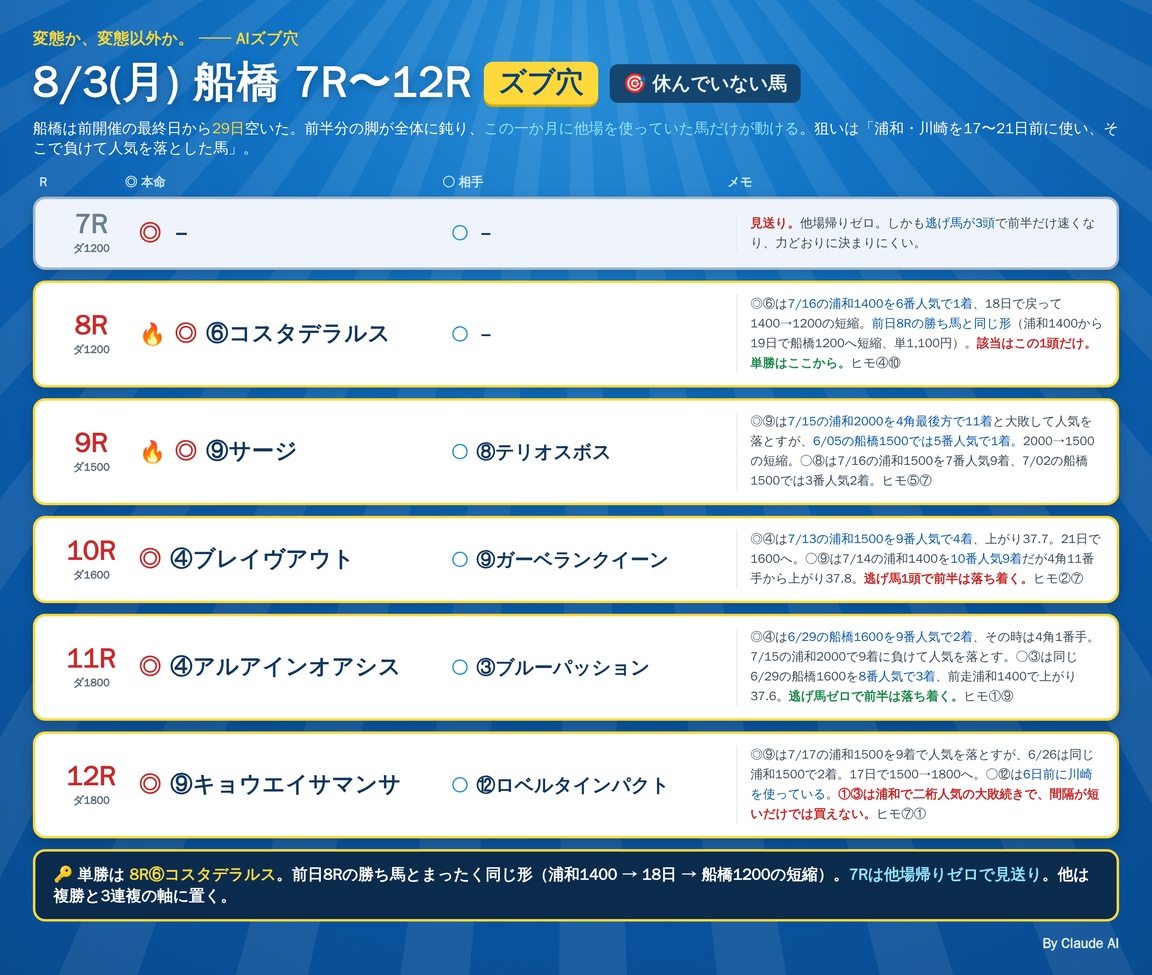
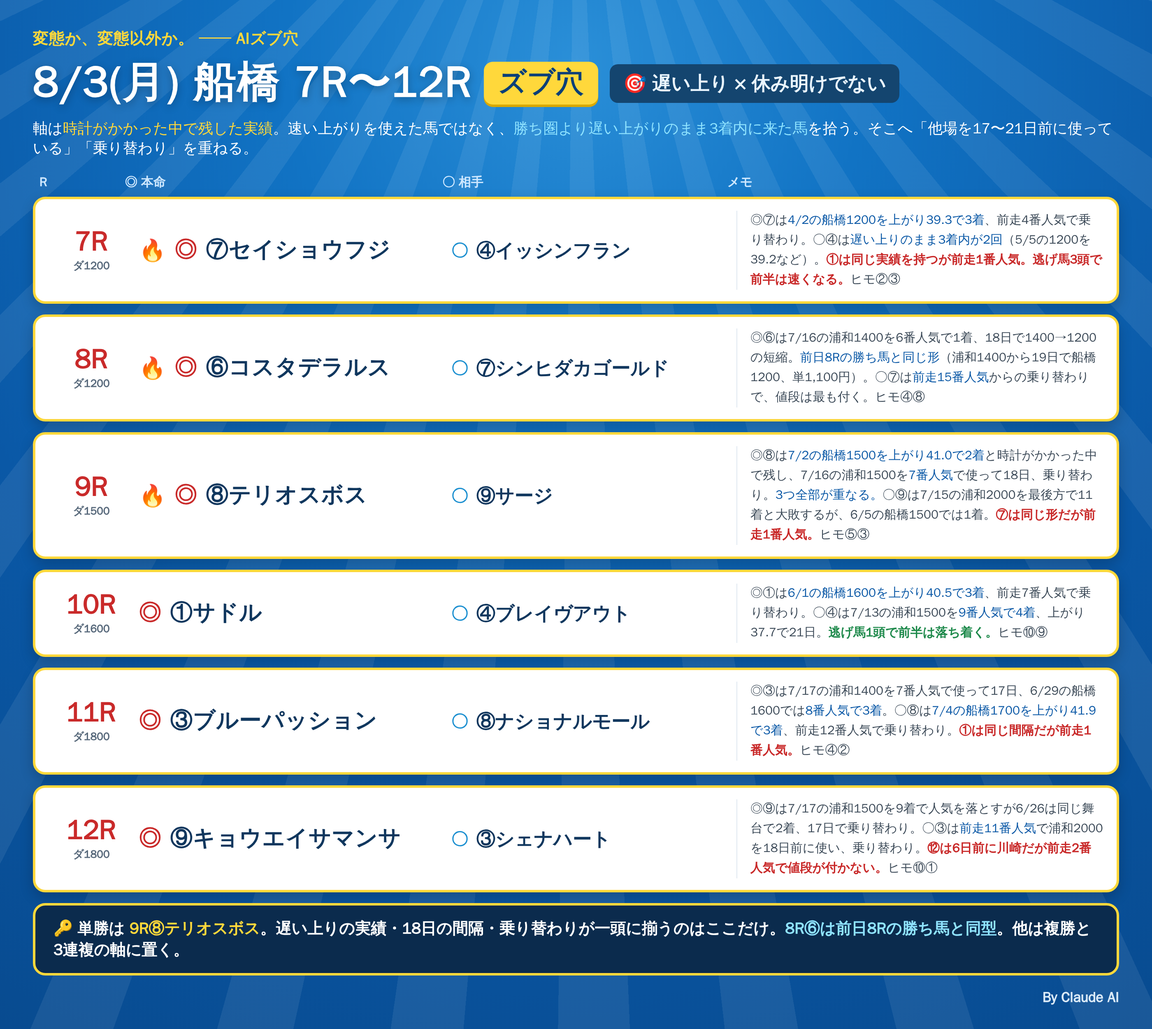
nankan: generalize the factor diagnosis off Kawasaki and add jockey change
The winning-range closing sectional was hardcoded to Kawasaki and the
sample files carry no per-horse closing splits at all, so the slow-closing
factor silently found nothing. Rebuilt the par from result pages per venue
and distance band, added a jockey-change flag that strips the apprentice
mark before comparing, and folded in the short-layoff filter.

Changed region(s): [[0.0311, 0.0312, 0.9943, 0.9679]]

diff --git a/notes/live/2026-08-03/funabashi_7_12_blue.html b/notes/live/2026-08-03/funabashi_7_12_blue.html
@@ -47,48 +47,48 @@
   <div class="titleline">
     <div class="title">8/3(月) 船橋 7R〜12R</div>
     <div class="bdg">ズブ穴</div>
-    <div class="bdg2">🎯 休んでいない馬</div>
+    <div class="bdg2">🎯 遅い上り × 休み明けでない</div>
   </div>
-  <div class="lead">船橋は前開催の最終日から<span class="y">29日</span>空いた。前半分の脚が全体に鈍り、<span class="c">この一か月に他場を使っていた馬だけが動ける</span>。狙いは「浦和・川崎を17〜21日前に使い、そこで負けて人気を落とした馬」。</div>
+  <div class="lead">軸は<span class="y">時計がかかった中で残した実績</span>。速い上がりを使えた馬ではなく、<span class="c">勝ち圏より遅い上がりのまま3着内に来た馬</span>を拾う。そこへ「他場を17〜21日前に使っている」「乗り替わり」を重ねる。</div>
   <div class="cols"><div class="cR">R</div><div class="cH">◎ 本命</div><div class="cA">○ 相手</div><div class="cM">メモ</div></div>
-  <div class="row skip">
+  <div class="row">
     <div class="rN"><div class="n">7R</div><div class="d">ダ1200</div></div>
-    <div class="hm"><span class="mk">◎</span><span class="nm">－</span></div>
-    <div class="at"><span class="mk2">○</span><span class="nm2">－</span></div>
-    <div class="memo"><span class='r'>見送り。</span>他場帰りゼロ。しかも<b>逃げ馬が3頭</b>で前半だけ速くなり、力どおりに決まりにくい。</div>
+    <div class="hm"><span class="fire">🔥</span><span class="mk">◎</span><span class="nm">⑦セイショウフジ</span></div>
+    <div class="at"><span class="mk2">○</span><span class="nm2">④イッシンフラン</span></div>
+    <div class="memo">◎⑦は<b>4/2の船橋1200を上がり39.3で3着</b>、前走4番人気で乗り替わり。○④は<b>遅い上りのまま3着内が2回</b>（5/5の1200を39.2など）。<span class='r'>①は同じ実績を持つが前走1番人気。逃げ馬3頭で前半は速くなる。</span>ヒモ②③</div>
   </div>
   <div class="row">
     <div class="rN"><div class="n">8R</div><div class="d">ダ1200</div></div>
     <div class="hm"><span class="fire">🔥</span><span class="mk">◎</span><span class="nm">⑥コスタデラルス</span></div>
-    <div class="at"><span class="mk2">○</span><span class="nm2">－</span></div>
-    <div class="memo">◎⑥は<b>7/16の浦和1400を6番人気で1着</b>、18日で戻って1400→1200の短縮。<b>前日8Rの勝ち馬と同じ形</b>（浦和1400から19日で船橋1200へ短縮、単1,100円）。<span class='r'>該当はこの1頭だけ。</span><span class='g'>単勝はここから。</span>ヒモ④⑩</div>
+    <div class="at"><span class="mk2">○</span><span class="nm2">⑦シンヒダカゴールド</span></div>
+    <div class="memo">◎⑥は7/16の浦和1400を6番人気で1着、18日で1400→1200の短縮。<b>前日8Rの勝ち馬と同じ形</b>（浦和1400から19日で船橋1200、単1,100円）。○⑦は<b>前走15番人気</b>からの乗り替わりで、値段は最も付く。ヒモ④⑧</div>
   </div>
   <div class="row">
     <div class="rN"><div class="n">9R</div><div class="d">ダ1500</div></div>
-    <div class="hm"><span class="fire">🔥</span><span class="mk">◎</span><span class="nm">⑨サージ</span></div>
-    <div class="at"><span class="mk2">○</span><span class="nm2">⑧テリオスボス</span></div>
-    <div class="memo">◎⑨は<b>7/15の浦和2000を4角最後方で11着</b>と大敗して人気を落とすが、<b>6/05の船橋1500では5番人気で1着</b>。2000→1500の短縮。○⑧は7/16の浦和1500を7番人気9着、7/02の船橋1500では3番人気2着。ヒモ⑤⑦</div>
+    <div class="hm"><span class="fire">🔥</span><span class="mk">◎</span><span class="nm">⑧テリオスボス</span></div>
+    <div class="at"><span class="mk2">○</span><span class="nm2">⑨サージ</span></div>
+    <div class="memo">◎⑧は<b>7/2の船橋1500を上がり41.0で2着</b>と時計がかかった中で残し、7/16の浦和1500を<b>7番人気</b>で使って18日、乗り替わり。<b>3つ全部が重なる。</b>○⑨は7/15の浦和2000を最後方で11着と大敗するが、6/5の船橋1500では1着。<span class='r'>⑦は同じ形だが前走1番人気。</span>ヒモ⑤③</div>
   </div>
   <div class="row">
     <div class="rN"><div class="n">10R</div><div class="d">ダ1600</div></div>
-    <div class="hm"><span class="mk">◎</span><span class="nm">④ブレイヴアウト</span></div>
-    <div class="at"><span class="mk2">○</span><span class="nm2">⑨ガーベランクイーン</span></div>
-    <div class="memo">◎④は<b>7/13の浦和1500を9番人気で4着</b>、上がり37.7。21日で1600へ。○⑨は7/14の浦和1400を<b>10番人気9着</b>だが4角11番手から上がり37.8。<span class='r'>逃げ馬1頭で前半は落ち着く。</span>ヒモ②⑦</div>
+    <div class="hm"><span class="mk">◎</span><span class="nm">①サドル</span></div>
+    <div class="at"><span class="mk2">○</span><span class="nm2">④ブレイヴアウト</span></div>
+    <div class="memo">◎①は<b>6/1の船橋1600を上がり40.5で3着</b>、前走7番人気で乗り替わり。○④は7/13の浦和1500を<b>9番人気で4着</b>、上がり37.7で21日。<span class='g'>逃げ馬1頭で前半は落ち着く。</span>ヒモ⑩⑨</div>
   </div>
   <div class="row">
     <div class="rN"><div class="n">11R</div><div class="d">ダ1800</div></div>
-    <div class="hm"><span class="mk">◎</span><span class="nm">④アルアインオアシス</span></div>
-    <div class="at"><span class="mk2">○</span><span class="nm2">③ブルーパッション</span></div>
-    <div class="memo">◎④は<b>6/29の船橋1600を9番人気で2着</b>、その時は4角1番手。7/15の浦和2000で9着に負けて人気を落とす。○③は同じ6/29の船橋1600を<b>8番人気で3着</b>、前走浦和1400で上がり37.6。<span class='g'>逃げ馬ゼロで前半は落ち着く。</span>ヒモ①⑨</div>
+    <div class="hm"><span class="mk">◎</span><span class="nm">③ブルーパッション</span></div>
+    <div class="at"><span class="mk2">○</span><span class="nm2">⑧ナショナルモール</span></div>
+    <div class="memo">◎③は7/17の浦和1400を7番人気で使って17日、6/29の船橋1600では<b>8番人気で3着</b>。○⑧は<b>7/4の船橋1700を上がり41.9で3着</b>、前走12番人気で乗り替わり。<span class='r'>①は同じ間隔だが前走1番人気。</span>ヒモ④②</div>
   </div>
   <div class="row">
     <div class="rN"><div class="n">12R</div><div class="d">ダ1800</div></div>
     <div class="hm"><span class="mk">◎</span><span class="nm">⑨キョウエイサマンサ</span></div>
-    <div class="at"><span class="mk2">○</span><span class="nm2">⑫ロベルタインパクト</span></div>
-    <div class="memo">◎⑨は7/17の浦和1500を9着で人気を落とすが、6/26は同じ浦和1500で2着。17日で1500→1800へ。○⑫は<b>6日前に川崎を使っている</b>。<span class='r'>①③は浦和で二桁人気の大敗続きで、間隔が短いだけでは買えない。</span>ヒモ⑦①</div>
+    <div class="at"><span class="mk2">○</span><span class="nm2">③シェナハート</span></div>
+    <div class="memo">◎⑨は7/17の浦和1500を9着で人気を落とすが6/26は同じ舞台で2着、17日で乗り替わり。○③は<b>前走11番人気</b>で浦和2000を18日前に使い、乗り替わり。<span class='r'>⑫は6日前に川崎だが前走2番人気で値段が付かない。</span>ヒモ⑩①</div>
   </div>
 
-  <div class="foot">🔑 単勝は <span class="y">8R⑥コスタデラルス</span>。前日8Rの勝ち馬とまったく同じ形（浦和1400 → 18日 → 船橋1200の短縮）。<span class="c">7Rは他場帰りゼロで見送り</span>。他は複勝と3連複の軸に置く。</div>
+  <div class="foot">🔑 単勝は <span class="y">9R⑧テリオスボス</span>。遅い上りの実績・18日の間隔・乗り替わりが一頭に揃うのはここだけ。<span class="c">8R⑥は前日8Rの勝ち馬と同型</span>。他は複勝と3連複の軸に置く。</div>
   <div class="sig">By Claude AI</div>
 </div></div>
 </body></html>

diff --git a/notes/live/2026-08-03/funabashi_1_6_blue.html b/notes/live/2026-08-03/funabashi_1_6_blue.html
@@ -47,48 +47,48 @@
   <div class="titleline">
     <div class="title">8/3(月) 船橋 1R〜6R</div>
     <div class="bdg">ズブ穴</div>
-    <div class="bdg2">🎯 休んでいない馬</div>
+    <div class="bdg2">🎯 遅い上り × 休み明けでない</div>
   </div>
-  <div class="lead">船橋は前開催の最終日から<span class="y">29日</span>空いた。前半分の脚が全体に鈍り、<span class="c">この一か月に他場を使っていた馬だけが動ける</span>。狙いは「浦和・川崎を17〜21日前に使い、そこで負けて人気を落とした馬」。</div>
+  <div class="lead">軸は<span class="y">時計がかかった中で残した実績</span>。速い上がりを使えた馬ではなく、<span class="c">勝ち圏より遅い上がりのまま3着内に来た馬</span>を拾う。そこへ「他場を17〜21日前に使っている」「乗り替わり」を重ねる。</div>
   <div class="cols"><div class="cR">R</div><div class="cH">◎ 本命</div><div class="cA">○ 相手</div><div class="cM">メモ</div></div>
   <div class="row skip">
     <div class="rN"><div class="n">1R</div><div class="d">ダ1200</div></div>
     <div class="hm"><span class="mk">◎</span><span class="nm">－</span></div>
     <div class="at"><span class="mk2">○</span><span class="nm2">－</span></div>
-    <div class="memo"><span class='r'>見送り。</span>他場を使ってきた馬が1頭もいない。全馬が29日以上空いており、条件差が付かない。<b>資金は2R以降へ。</b></div>
+    <div class="memo"><span class='r'>見送り。</span>2歳三で、遅い上りの実績も他場帰りも該当がゼロ。材料が無い。<b>資金は2R以降へ。</b></div>
   </div>
   <div class="row">
     <div class="rN"><div class="n">2R</div><div class="d">ダ1200</div></div>
-    <div class="hm"><span class="mk">◎</span><span class="nm">⑦ゴーレム</span></div>
-    <div class="at"><span class="mk2">○</span><span class="nm2">②ユウユウカツサンド</span></div>
-    <div class="memo">◎⑦は<b>7/15の浦和1400を8番人気で7着</b>、19日で戻って1400→1200の短縮。6/29の船橋では7番人気4着。○②は<b>7日前に川崎を使っている</b>唯一の馬で、4角10〜11番手から3着を2回。<span class='r'>⑪は前走2着で人気を集める。</span>ヒモ①⑪</div>
+    <div class="hm"><span class="mk">◎</span><span class="nm">⑤ドジッコ</span></div>
+    <div class="at"><span class="mk2">○</span><span class="nm2">⑦ゴーレム</span></div>
+    <div class="memo">◎⑤は<b>3/10の船橋1200を上がり40.7で3着</b>、時計がかかった中で残している。前走8番人気で乗り替わり。○⑦は7/15の浦和1400を<b>8番人気</b>で使って19日、1400→1200の短縮。ヒモ①④</div>
   </div>
-  <div class="row skip">
+  <div class="row">
     <div class="rN"><div class="n">3R</div><div class="d">ダ1500</div></div>
-    <div class="hm"><span class="mk">◎</span><span class="nm">－</span></div>
-    <div class="at"><span class="mk2">○</span><span class="nm2">－</span></div>
-    <div class="memo"><span class='r'>見送り。</span>7頭立てで他場帰りゼロ。全馬が同じだけ休んでいて、差を付ける材料が無い。</div>
+    <div class="hm"><span class="mk">◎</span><span class="nm">②ピースクラフト</span></div>
+    <div class="at"><span class="mk2">○</span><span class="nm2">①プレミアムチーム</span></div>
+    <div class="memo">◎②は<b>7/3の船橋1500を上がり44.6で3着</b>。前走5番人気で乗り替わり。○①も同じ7/3を上がり42.4で3着だが<span class='r'>前走1番人気で値段が付かない。</span>他場帰りは1頭もいない。ヒモ⑤③</div>
   </div>
   <div class="row">
     <div class="rN"><div class="n">4R</div><div class="d">ダ1200</div></div>
-    <div class="hm"><span class="fire">🔥</span><span class="mk">◎</span><span class="nm">④レガシーオブエリザ</span></div>
-    <div class="at"><span class="mk2">○</span><span class="nm2">①イーオレイ</span></div>
-    <div class="memo"><b>逃げ馬が2頭（⑦⑩）</b>で前半が速くなりやすい。◎④は7/15の浦和800を<b>9番人気8着</b>、19日で戻り800→1200の延長で忙しさが減る。○①は7/16の浦和1500を<b>10番人気8着</b>、1500→1200の短縮。<span class='g'>前が競るなら後ろから。</span>ヒモ⑤⑦</div>
+    <div class="hm"><span class="fire">🔥</span><span class="mk">◎</span><span class="nm">①イーオレイ</span></div>
+    <div class="at"><span class="mk2">○</span><span class="nm2">⑧エスケイキャット</span></div>
+    <div class="memo">◎①は7/16の浦和1500を<b>10番人気</b>で使って18日、1500→1200の短縮。○⑧は<b>3/31の船橋1200を上がり39.1で3着など、遅い上りのまま2回</b>。<span class='r'>逃げ馬が2頭（⑦⑩）で前半は速くなりやすい。</span>ヒモ④⑤</div>
   </div>
   <div class="row">
     <div class="rN"><div class="n">5R</div><div class="d">ダ1000</div></div>
     <div class="hm"><span class="fire">🔥</span><span class="mk">◎</span><span class="nm">③アイリーナ</span></div>
-    <div class="at"><span class="mk2">○</span><span class="nm2">②キャストライトオン</span></div>
-    <div class="memo">◎③は<b>7/17の浦和800を9番人気で1着</b>、17日で戻って800→1000。6/01の船橋1200でも7番人気3着。○②は<b>6/02の船橋1000を9番人気で1着</b>。<span class='r'>ただし逃げ馬が3頭いて前半は速くなる。②は競り合う側。</span>ヒモ①⑫</div>
+    <div class="at"><span class="mk2">○</span><span class="nm2">①モーニングタンポポ</span></div>
+    <div class="memo">◎③は<b>7/17の浦和800を9番人気で1着</b>、17日で戻る。加えて<b>6/1の船橋1200を上がり39.2で3着</b>。<b>両方の条件が重なる唯一の馬。</b>○①も同じ浦和800を9番人気で使って17日、乗り替わり。<span class='g'>単勝はここから。</span>ヒモ②⑫</div>
   </div>
   <div class="row">
     <div class="rN"><div class="n">6R</div><div class="d">ダ1500</div></div>
     <div class="hm"><span class="fire">🔥</span><span class="mk">◎</span><span class="nm">⑨ウォールローゼ</span></div>
-    <div class="at"><span class="mk2">○</span><span class="nm2">④バブリーヒーロー</span></div>
-    <div class="memo">◎⑨は<b>7/15の浦和1500を11番人気で4着</b>、4角7番手から上がり38.0。19日で同距離に戻る。○④は同じ7/15の浦和1500を<b>10番人気で5着</b>。<span class='g'>13頭立てで逃げ馬2頭、後ろから運ぶ形が向く。</span>ヒモ⑧③</div>
+    <div class="at"><span class="mk2">○</span><span class="nm2">⑩ボーゲンモーント</span></div>
+    <div class="memo">◎⑨は<b>6/28の船橋1500を上がり40.1で3着</b>、そして7/15の浦和1500を<b>11番人気</b>で使って19日。○⑩は<b>10番人気</b>で、12/8の船橋1500を上がり40.8で3着。13頭立てで人気が割れる。ヒモ③④</div>
   </div>
 
-  <div class="foot">🔑 <span class="y">5R③アイリーナ</span>と<span class="y">6R⑨ウォールローゼ</span>が中心。<span class="c">1R・3Rは他場帰りが1頭もいないので見送り</span>、資金をこの2鞍に寄せる。オッズ開放後に6番人気以下かを再確認。</div>
+  <div class="foot">🔑 <span class="y">5R③アイリーナ</span>が中心。遅い上りの実績と17日の間隔が一頭に重なるのはここだけ。<span class="c">1Rは材料ゼロで見送り</span>。オッズ開放後に6番人気以下かを再確認。</div>
   <div class="sig">By Claude AI</div>
 </div></div>
 </body></html>

diff --git a/scripts/nankan_factor.py b/scripts/nankan_factor.py
@@ -1,0 +1,234 @@
+#!/usr/bin/env python3
+# -*- coding: utf-8 -*-
+"""南関ズブ穴ファクター診断（kk_factor を場に依存しない形へ広げたもの）.
+
+kk_factor.py は川崎に固定で、勝ち圏の上がりも川崎の値を直書きしていた。
+船橋・浦和・大井で回すには場ごとに基準を作り直す必要があるので、
+標本（data/samples/nankan_20*.jsonl）から場×距離帯の3着内中央値を毎回引き直す。
+
+付けるファクター:
+  血統      … その場での父別複勝率lift（1.3倍以上で加点）
+  馬体重    … 480kg以上
+  遅い上り  … その場・同距離帯（±200m）で、勝ち圏より遅い上がりのまま3着内に来た実績。
+              速い上がりを使えた馬ではなく、時計がかかった中で残した馬を拾う。
+              重み2（本命の芯）
+  乗り替わり… 前走と騎手が替わった馬。乗り替わり自体は良し悪しではないが、
+              市場は前走の着順を見て値段を付けるので、手が変わった分は値段に入りにくい
+  休み明けでない… 前走が他場で、間隔が21日以内。
+              2026-08-02 の船橋（29日空きの開催初日）で、他場帰り41頭が単223%・複137%、
+              船橋帰り69頭が単31.7%・複91.9%。ただし1日ぶんの観測で未検証
+
+  ★重みは仮置きである。回収率で測っていない。並べ替えの目安として使うこと。
+
+    python3 scripts/nankan_factor.py --date 2026-08-03 --place 船橋
+    python3 scripts/nankan_factor.py --date 2026-08-03 --place 船橋 --from 7 --to 12
+"""
+from __future__ import annotations
+
+import argparse
+import glob
+import json
+import statistics as st
+import sys
+from collections import defaultdict
+from datetime import date
+from pathlib import Path
+
+ROOT = Path(__file__).resolve().parents[1]
+sys.path.insert(0, str(ROOT / "src"))
+
+from nankeiba.scraping.race_id import day_index_race_id, NANKAN_CODES
+from nankeiba.scraping.client import PoliteClient
+from nankeiba.scraping import parser as P
+
+CARD = "https://keiba.rakuten.co.jp/race_card/list/RACEID/{race_id}"
+NANKAN = set(NANKAN_CODES)
+
+
+def load_samples():
+    for f in sorted(glob.glob(str(ROOT / "data/samples/nankan_20*.jsonl"))):
+        for line in open(f, encoding="utf-8"):
+            line = line.strip()
+            if line:
+                try:
+                    yield json.loads(line)
+                except Exception:
+                    continue
+
+
+def tables(place, min_n=40):
+    """その場の『父別lift』と『距離帯ごとの勝ち圏上がり』をまとめて作る。"""
+    n, t3 = defaultdict(int), defaultdict(int)
+    base_n = base_t3 = 0
+    agari = defaultdict(list)
+    for r in load_samples():
+        if r.get("place") != place:
+            continue
+        dist = r.get("distance")
+        for h in r.get("horses") or []:
+            fin = h.get("finish_pos")
+            if not fin:
+                continue
+            base_n += 1
+            top3 = fin <= 3
+            base_t3 += top3
+            s = h.get("sire")
+            if s:
+                n[s] += 1
+                t3[s] += top3
+            a = h.get("agari")
+            if a and top3 and dist:
+                agari[dist // 200 * 200].append(a)
+    base = base_t3 / base_n if base_n else 0.27
+    lift = {s: (t3[s] / n[s]) / base for s in n if n[s] >= min_n and base}
+    par = {k: st.median(v) for k, v in agari.items() if len(v) >= 20}
+    return lift, par, base, base_n
+
+
+def par_from_results(client, place, d0, d1):
+    """勝ち圏の上がりを結果ページから作る。
+
+    標本ファイル（data/samples）には個別の上がりが入っていない（延べ11,227走で0件）ので、
+    3着内に来た馬の上がりを結果ページから直接拾って距離帯ごとの中央値を取る。
+    """
+    sys.path.insert(0, str(ROOT / "scripts"))
+    from nankan_gyaku import result_rows
+    from nankan_zubu_backtest import PERF, race_days
+
+    agari = defaultdict(list)
+    days = race_days(client, place, d0, d1)
+    for i, (d, rs) in enumerate(days, 1):
+        for rno, rid in sorted(rs.items()):
+            try:
+                html = client.get(PERF.format(race_id=rid) if "{race_id}" in PERF
+                                  else PERF.format(r=rid))
+                res = P.parse_result_page(html, rid)
+                rows = result_rows(html)
+            except Exception:
+                continue
+            if not res.distance:
+                continue
+            for r in rows:
+                if r["agari"] and r["fin"] <= 3:
+                    agari[res.distance // 200 * 200].append(r["agari"])
+        print(f"\r  基準づくり {i}/{len(days)}日", end="", flush=True)
+    print("\r" + " " * 30 + "\r", end="")
+    return {k: st.median(v) for k, v in agari.items() if len(v) >= 20}
+
+
+def jname(x):
+    """減量記号（▲☆△★◇）を落とす。付けたまま比べると同じ騎手が乗替に見える。"""
+    return (x or "").lstrip("▲☆△★◇◎○ ").strip()
+
+
+def agari_par(par, dist):
+    """その距離帯の勝ち圏上がり。無ければ近い帯で代用する。"""
+    k = dist // 200 * 200
+    if k in par:
+        return par[k]
+    if not par:
+        return None
+    return par[min(par, key=lambda x: abs(x - k))]
+
+
+def slow_but_held(e, place, dist, par):
+    """『遅い上がりのまま3着内に来た』実績を数える。速い脚の証明ではない。"""
+    cut = agari_par(par, dist)
+    if cut is None:
+        return 0, None
+    cnt, ex = 0, None
+    for rr in e.recent_runs or []:
+        if rr.place != place or not rr.agari or not rr.distance or not rr.finish_pos:
+            continue
+        if abs(rr.distance - dist) > 200 or rr.finish_pos > 3:
+            continue
+        if rr.agari <= cut:          # 速い上がりで来た馬はここでは数えない
+            continue
+        cnt += 1
+        if ex is None:
+            ex = (str(rr.date)[5:], rr.distance, rr.agari)
+    return cnt, ex
+
+
+def main():
+    ap = argparse.ArgumentParser(description="南関ズブ穴ファクター診断")
+    ap.add_argument("--date", required=True)
+    ap.add_argument("--place", default="船橋", choices=sorted(NANKAN))
+    ap.add_argument("--from", dest="r_from", type=int, default=1)
+    ap.add_argument("--to", dest="r_to", type=int, default=12)
+    ap.add_argument("--par-from", default="2026-04-01",
+                    help="勝ち圏の上がりを作る期間の開始（標本に上がりが無い場合に使う）")
+    ap.add_argument("--fresh-days", type=int, default=21,
+                    help="前走からこの日数以内かつ他場なら『休み明けでない』")
+    args = ap.parse_args()
+
+    d = date.fromisoformat(args.date)
+    ymd = d.strftime("%Y%m%d")
+    lift, par, base, n = tables(args.place)
+    client = PoliteClient(use_cache=True)
+    if not par:
+        par = par_from_results(client, args.place,
+                               date.fromisoformat(args.par_from), d)
+    races = dict(P.parse_race_links(
+        client.get(CARD.format(race_id=day_index_race_id(ymd, args.place))),
+        date_yyyymmdd=ymd, jyo_code=NANKAN_CODES[args.place]))
+
+    print(f"■ {args.place} {args.date} ファクター診断（標本 {n:,}走・複勝率 {base:.3f}）")
+    if lift:
+        top = sorted(lift, key=lambda x: -lift[x])[:8]
+        print("  好走血統(lift1.3+): "
+              + " / ".join(f"{s}{lift[s]:.2f}" for s in top if lift[s] >= 1.3))
+    print("  勝ち圏上がり: "
+          + " / ".join(f"{k}m台 {v:.1f}" for k, v in sorted(par.items())))
+
+    for R in sorted(races):
+        if not (args.r_from <= R <= args.r_to):
+            continue
+        card = P.parse_card_page(client.get(CARD.format(race_id=races[R])), races[R])
+        print(f"\n=== {R}R {card.surface}{card.distance} "
+              f"({card.field_size}頭) {card.race_class or ''} ===")
+        rows = []
+        for e in card.entries:
+            if e.umaban is None:
+                continue
+            pts, tags = 0, []
+            lf = lift.get(e.sire or "")
+            if lf and lf >= 1.3:
+                pts += 1
+                tags.append(f"血統{(e.sire or '')[:8]}{lf:.2f}x")
+            if e.horse_weight and e.horse_weight >= 480:
+                pts += 1
+                tags.append(f"{e.horse_weight}kg")
+            cnt, ex = slow_but_held(e, args.place, card.distance, par)
+            if cnt:
+                pts += 2
+                tags.append(f"🎯遅い上りで3着内{cnt}回"
+                            + (f"[{ex[0]}/{ex[1]}m/{ex[2]}]" if ex else ""))
+            runs = e.recent_runs or []
+            prev = runs[0] if runs else None
+            if (prev and prev.jockey and e.jockey
+                    and jname(prev.jockey) != jname(e.jockey)):
+                pts += 1
+                tags.append(f"乗替 {prev.jockey}→{e.jockey}")
+            gap = None
+            if prev and prev.date:
+                try:
+                    gap = (d - date.fromisoformat(str(prev.date))).days
+                except Exception:
+                    gap = None
+            if gap is not None and gap <= args.fresh_days and prev.place != args.place:
+                pts += 2
+                tags.append(f"休み明けでない({prev.place}{prev.distance}・{gap}日)")
+            pop = f"{prev.popularity}人" if prev and prev.popularity else "-"
+            rows.append((pts, e.umaban, e.horse_name, e.jockey or "", pop, tags))
+        rows.sort(key=lambda x: (-x[0], x[1]))
+        for pts, um, nm, jk, pop, tags in rows:
+            star = "★" * min(pts, 5)
+            print(f"  {um:>3} {nm:<15}{(jk or '')[:4]:<5}前走{pop:>4} {star:<6}"
+                  + (" / ".join(tags) if tags else ""))
+
+    print("\n  重みは仮置き（遅い上り2・休み明けでない2・血統1・馬体重1・乗替1）。回収率では測っていない。")
+
+
+if __name__ == "__main__":
+    main()
